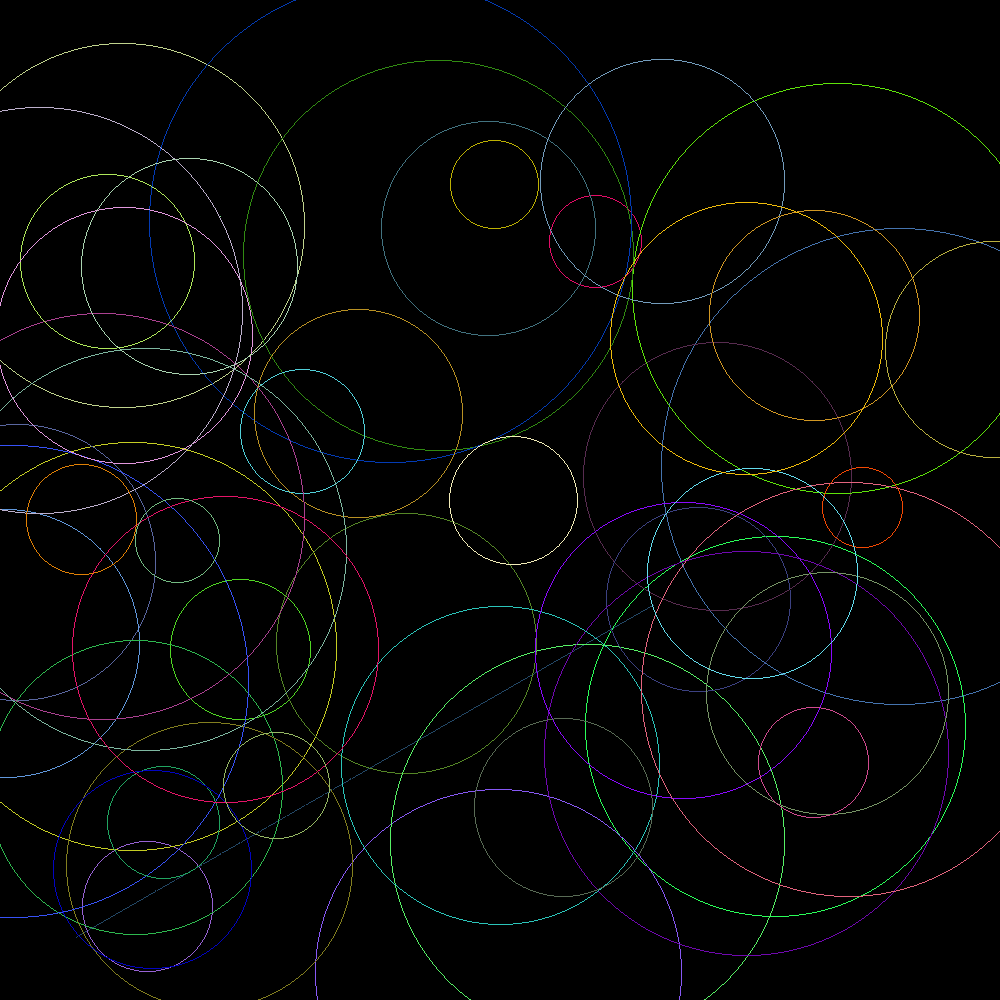
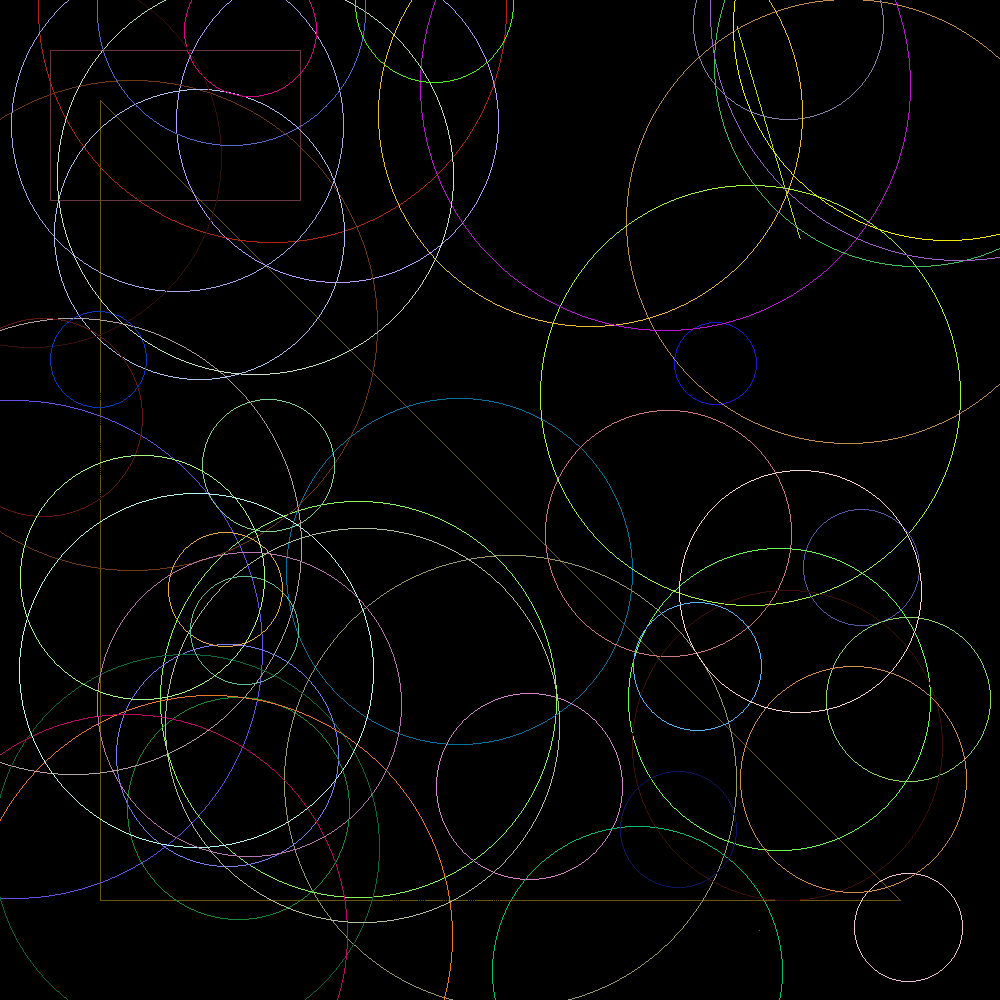
rectangle and triangle are done

diff --git a/GeometricalShapes/Rectangle.java b/GeometricalShapes/Rectangle.java
@@ -1,0 +1,56 @@
+package GeometricalShapes;
+
+import java.awt.Color;
+import java.util.Random;
+
+public class Rectangle implements Drawable {
+    private final Point topLeft;
+    private final Point bottomRight;
+    private final Color color;
+
+    public Rectangle(Point p1, Point p2) {
+        // Normalize coordinates so topLeft is truly at top-left corner
+        int minX = Math.min(p1.getX(), p2.getX());
+        int minY = Math.min(p1.getY(), p2.getY());
+        int maxX = Math.max(p1.getX(), p2.getX());
+        int maxY = Math.max(p1.getY(), p2.getY());
+
+        this.topLeft = new Point(minX, minY);
+        this.bottomRight = new Point(maxX, maxY);
+        this.color = randomColor();
+    }
+
+    @Override
+    public void draw(Displayable displayable) {
+        // int x1 = topLeft.getX();
+        // int y1 = topLeft.getY();
+        int x2 = bottomRight.getX();
+        int y2 = bottomRight.getY();
+
+        Point p1 = new Point(topLeft.getX(), topLeft.getY());
+        Point p2 = new Point(bottomRight.getX(), bottomRight.getY());
+        Point p3 = new Point(topLeft.getX(), bottomRight.getY());
+        Point p4 = new Point(bottomRight.getX(), topLeft.getY());
+
+        // Draw the rectangle using 4 lines
+        Line top = new Line(p1, p4, color);
+        Line bottom = new Line(p3, p2, color);
+        Line left = new Line(p4, p2, color);
+        Line right = new Line(p1, p3, color);
+
+        top.draw(displayable);
+        bottom.draw(displayable);
+        left.draw(displayable);
+        right.draw(displayable);
+    }
+
+    private Color randomColor() {
+        Random random = new Random();
+        return new Color(random.nextInt(256), random.nextInt(256), random.nextInt(256));
+    }
+
+    @Override
+    public Color getColor() {
+        return color;
+    }
+}

diff --git a/GeometricalShapes/Triangle.java b/GeometricalShapes/Triangle.java
@@ -1,0 +1,42 @@
+package GeometricalShapes;
+
+import java.awt.Color;
+import java.util.Random;
+
+public class Triangle implements Drawable {
+    private final Point p1;
+    private final Point p2;
+    private final Point p3;
+    private final Color color;
+
+    // Constructor: takes 3 vertices
+    public Triangle(Point p1, Point p2, Point p3) {
+        this.p1 = p1;
+        this.p2 = p2;
+        this.p3 = p3;
+        this.color = randomColor();
+    }
+
+    @Override
+    public void draw(Displayable displayable) {
+        // Draw the three sides of the triangle
+        Line side1 = new Line(p1, p2, color);
+        Line side2 = new Line(p2, p3, color);
+        Line side3 = new Line(p3, p1, color);
+
+        side1.draw(displayable);
+        side2.draw(displayable);
+        side3.draw(displayable);
+    }
+
+    // Generate a random color
+    private Color randomColor() {
+        Random random = new Random();
+        return new Color(random.nextInt(256), random.nextInt(256), random.nextInt(256));
+    }
+
+    @Override
+    public Color getColor() {
+        return color;
+    }
+}

diff --git a/Main.java b/Main.java
@@ -9,10 +9,10 @@ public class Main {
         final Line line = Line.random(image.getWidth(), image.getHeight());
         line.draw(image);
 
-        // Rectangle rectangle = new Rectangle(new Point(50, 50), new Point(300, 200));
-        // rectangle.draw(image);
-        // Triangle triangle = new Triangle(new Point(100, 100), new Point(900, 900), new Point(100, 900));
-        // triangle.draw(image);
+        Rectangle rectangle = new Rectangle(new Point(50, 50), new Point(300, 200));
+        rectangle.draw(image);
+        Triangle triangle = new Triangle(new Point(100, 100), new Point(900, 900), new Point(100, 900));
+        triangle.draw(image);
 
         for (int i = 0; i < 50; i++) {
             final Circle circle = Circle.random(image.getWidth(), image.getHeight());
